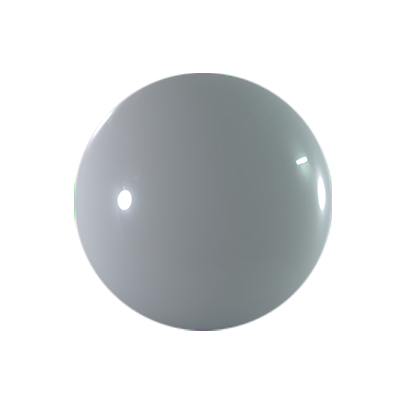
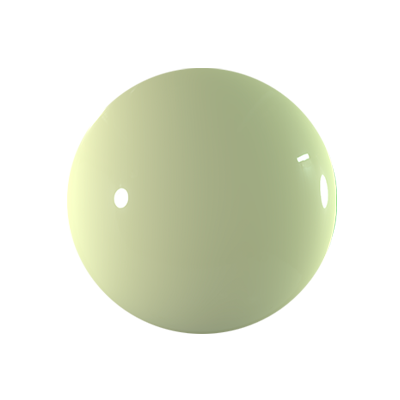
Coloring

diff --git a/src/render/shaders/ShaderPBR.js b/src/render/shaders/ShaderPBR.js
@@ -53,7 +53,7 @@ ShaderPBR.environments = [{
     // https://hdrihaven.com/hdri/?h=studio_small_01
     path: texPath + 'studio_small_01_1k.png',
     sph: [0.534107, 0.589985, 0.617478, 0.119999, 0.130480, 0.128019, 0.089872, 0.088707, 0.088017, 0.099999, 0.151282, 0.138458, 0.005015, 0.035588, 0.027592, 0.114999, 0.116739, 0.120579, -0.057997, -0.069532, -0.070401, 0.385123, 0.411714, 0.454725, 0.303242, 0.333004, 0.350270],
-    exposure: 0.2,
+    exposure: 1.575,
     name: 'Studio small 01'
 }, {
     // https://hdrihaven.com/hdri/?h=moonless_golf
@@ -72,8 +72,7 @@ ShaderPBR.environments = [{
 var opts = getOptionsURL();
 ShaderPBR.idEnv = Math.min(opts.environment, ShaderPBR.environments.length - 1);
 ShaderPBR.idTex = Math.min(opts.environment, ShaderPBR.textures.length - 1);
-ShaderPBR.exposure = 0.7; //opts.exposure === undefined ? ShaderPBR.environments[ShaderPBR.idEnv].exposure : Math.min(opts.exposure, 5);
-
+ShaderPBR.exposure = 1.2; //opts.exposure === undefined ? ShaderPBR.environments[ShaderPBR.idEnv].exposure : Math.min(opts.exposure, 5);
 
 ShaderPBR.uniforms = {};
 ShaderPBR.attributes = {};
@@ -188,6 +187,12 @@ ShaderPBR.updateUniforms = function(mesh, main) {
     mat3.fromMat4(uIBLTmp, main.getCamera().getView());
     gl.uniformMatrix3fv(uniforms.uIblTransform, false, mat3.transpose(uIBLTmp, uIBLTmp));
 
+    // var al = mesh.getAlbedo();
+
+    // al[0] = 240;
+    // al[1] = 235;
+    // al[2] = 215;
+
     gl.uniform3fv(uniforms.uAlbedo, mesh.getAlbedo());
     gl.uniform1f(uniforms.uRoughness, mesh.getRoughness());
     gl.uniform1f(uniforms.uMetallic, mesh.getMetallic());
@@ -203,9 +208,9 @@ ShaderPBR.updateUniforms = function(mesh, main) {
     gl.bindTexture(gl.TEXTURE_2D, ShaderPBR.getOrCreateEnvironment(gl, main, env) || this.getDummyTexture(gl));
     gl.uniform1i(uniforms.uTexture0, 0);
 
-    gl.activeTexture(gl.TEXTURE1);
-    gl.bindTexture(gl.TEXTURE_2D, ShaderPBR.getOrCreateTexture0(gl, main, img) || this.getDummyTexture(gl));
-    gl.uniform1i(uniforms.uTexture1, 0);
+    // gl.activeTexture(gl.TEXTURE1);
+    // gl.bindTexture(gl.TEXTURE_2D, ShaderPBR.getOrCreateTexture0(gl, main, img) || this.getDummyTexture(gl));
+    // gl.uniform1i(uniforms.uTexture1, 0);
 
 
     ShaderBase.updateUniforms.call(this, mesh, main);

diff --git a/src/Scene.js b/src/Scene.js
@@ -495,6 +495,10 @@ class Scene {
                 if (idMaterial == 0) {
                     self._mainObj.setShaderType(Enums.Shader.PBR);
                     ShaderPBR.idEnv = 2;
+                    self._mainObj.setAlbedo([240 / 240, 255 / 255, 192 / 255]);
+                    self._mainObj.setRoughness(0.1);
+                    self._mainObj.setMetallic(0);
+
                     // self._mainObj.setShaderType(Enums.Shader.MATCAP);
                     // self._mainObj.setMatcap(idMaterial + 2);
                 } else if (idMaterial == 1) {
@@ -502,7 +506,7 @@ class Scene {
 
                     // ShaderPBR.idTex = 2;
                     self._mainObj.setShaderType(Enums.Shader.MATCAP);
-                    self._mainObj.setMatcap(idMaterial + 2);
+                    self._mainObj.setMatcap(idMaterial + 1);
 
                 } else if (idMaterial == 2) {
                     self._mainObj.setShaderType(Enums.Shader.MATCAP);

diff --git a/src/render/shaders/ShaderMatcap.js b/src/render/shaders/ShaderMatcap.js
@@ -26,7 +26,7 @@ ShaderMatcap.matcaps = [{
     path: texPath + 'fuck2.png', //'skinHazardousarts.jpg',
     name: 'Skin hazardousarts' // too lazy to tr
 }, {
-    path: texPath + 'fuck5.png',
+    path: texPath + 'fuck2.png',
     name: 'Skin Hazardousarts2' // too lazy to tr
 }, {
     path: texPath + 'pearl.jpg',

diff --git a/app/blick.js b/app/blick.js
@@ -61,6 +61,8 @@ window.addEventListener('load', function() {
 
     setInterval(onTimerTick, 33); // 33 milliseconds = ~ 30 frames per sec
 
+    LoadTexture('resources/bg.png', 1);
+
 });
 
 function onWindowResize() {
